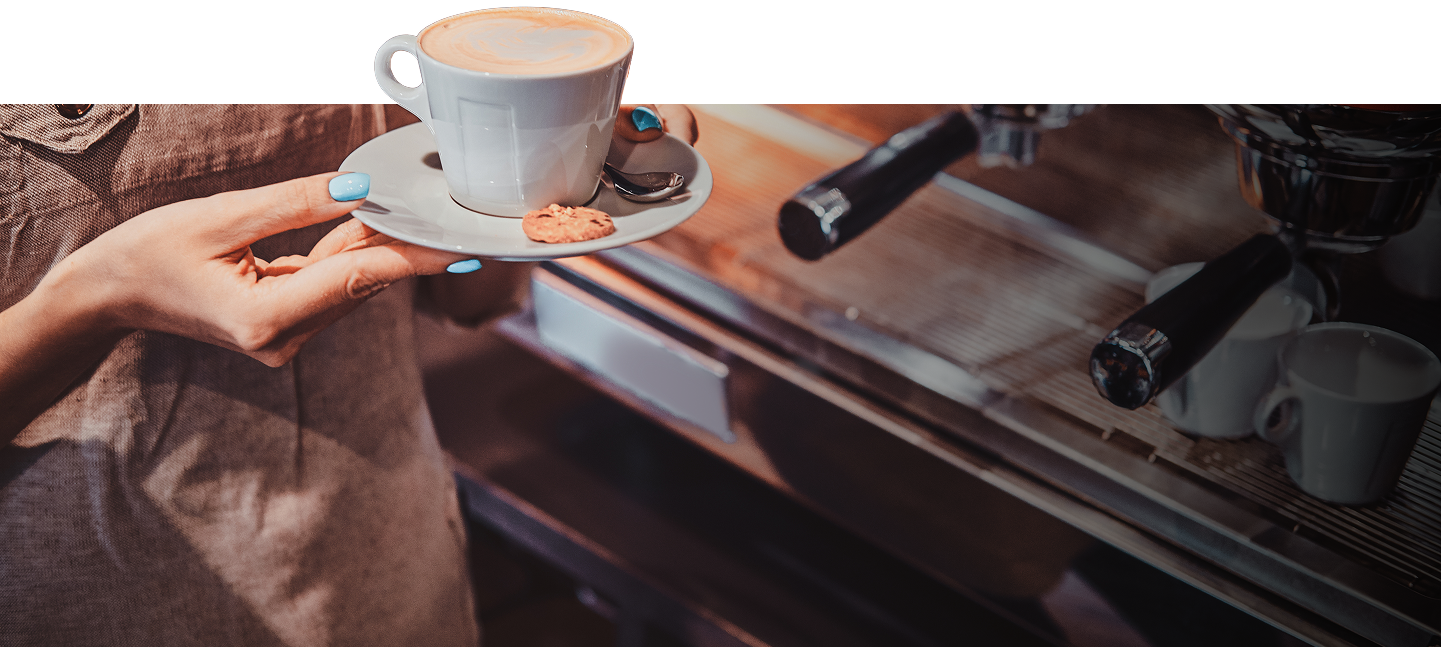
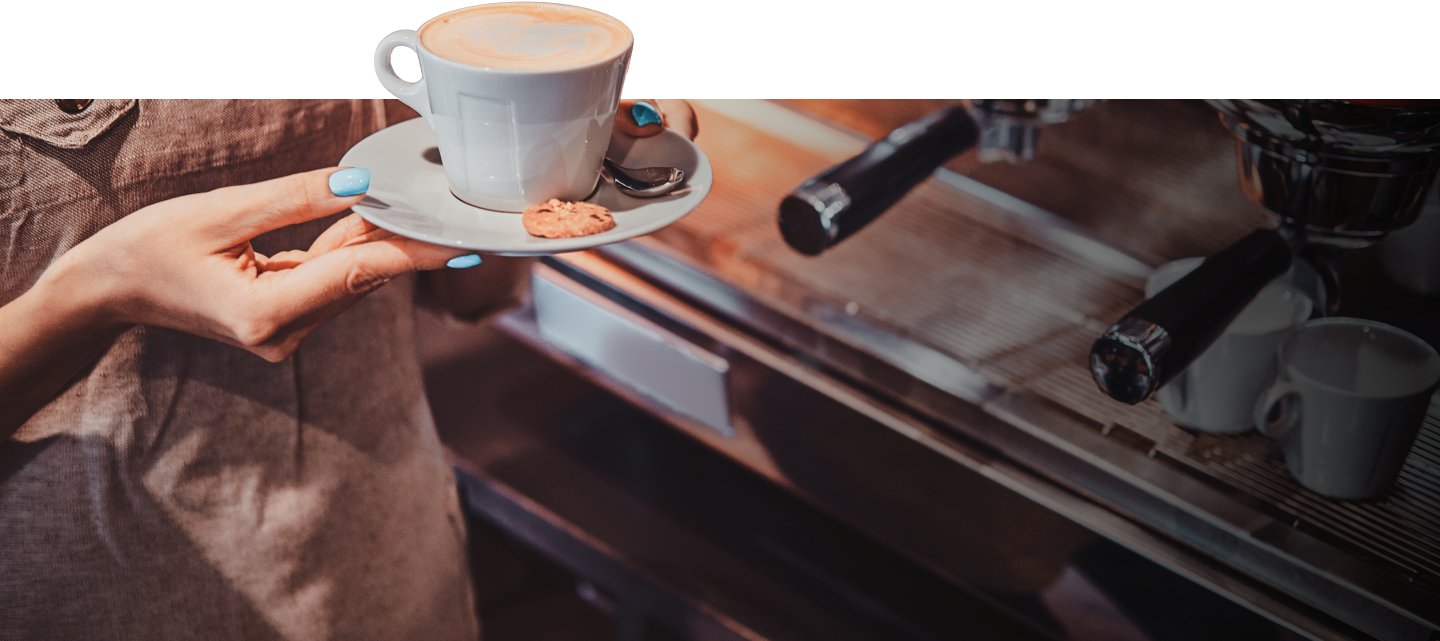
refactor: substitui tags <img> por componente <Image> do Next.js para otimizar carregamento de imagens

diff --git a/src/app/sobre/page.tsx b/src/app/sobre/page.tsx
@@ -13,11 +13,16 @@ export default function AboutSection() {
             <section className="mt-[120px]">
                 {/* MOBILE Banner */}
                 <div className="relative block md:hidden w-full">
-                    <img
-                        src="/images/destaques/Banner_Sobre_Mobile.png"
-                        alt="Banner Sobre Mobile"
-                        className="w-full h-auto"
-                    />
+                    <div className="block md:hidden relative w-full aspect-[1.2]">
+                        <Image
+                            src="/images/destaques/Banner_Sobre_Mobile.png"
+                            alt="Banner Sobre Mobile"
+                            fill
+                            className="object-cover"
+                            sizes="100vw"
+                            priority
+                        />
+                    </div>
                     <div className="absolute top-0 left-0 w-full h-full flex items-end justify-center px-4 pb-12">
                         <div className="text-white space-y-2 max-w-[320px] text-center">
                             <p className="text-sm font-normal">{t("bannerTitle1")}</p>
@@ -28,11 +33,19 @@ export default function AboutSection() {
 
                 {/* DESKTOP Banner */}
                 <div className="relative hidden md:block w-full aspect-[2.057] max-h-[790px] mt-[120px]">
-                    <img
+                    <Image
+                        src="/images/destaques/Banner_Sobre.png"
+                        alt="Banner Sobre"
+                        fill
+                        className="object-cover"
+                        sizes="100"
+                        priority
+                    />
+                    {/* <img
                         src="/images/destaques/Banner_Sobre.png"
                         alt="Banner Sobre"
                         className="absolute inset-0 w-full h-full object-cover"
-                    />
+                    /> */}
                     <div className="absolute bottom-0 left-0 w-full h-full flex items-end">
                         <div className="w-[561px] px-4 text-left ml-[36%] mb-12">
                             <p className="text-white text-2xl font-normal">
@@ -50,18 +63,26 @@ export default function AboutSection() {
             <div className="flex flex-col md:flex-row w-full mt-20 gap-y-12 md:gap-y-0">
                 <div className="w-full md:w-[600px] flex-shrink-0">
                     {/* Imagem desktop */}
-                    <img
-                        src="/images/destaques/Sobre_IMG_01.png"
-                        alt="Imagem Sobre"
-                        className="hidden md:block w-full h-auto object-cover"
-                    />
+                    <div className="hidden md:block">
+                        <Image
+                            src="/images/destaques/Sobre_IMG_01.png"
+                            alt="Imagem Sobre"
+                            width={600}
+                            height={900}
+                            className="w-full h-auto object-cover"
+                        />
+                    </div>
 
                     {/* Imagem mobile */}
-                    <img
-                        src="/images/destaques/Mobile_Sobre_IMG_01.png"
-                        alt="Imagem Sobre Mobile"
-                        className="block md:hidden w-full h-auto object-cover"
-                    />
+                    <div className="block md:hidden">
+                        <Image
+                            src="/images/destaques/Mobile_Sobre_IMG_01.png"
+                            alt="Imagem Sobre Mobile"
+                            width={390}
+                            height={468}
+                            className="w-full h-auto object-cover"
+                        />
+                    </div>
                 </div>
 
                 <div className="flex-1">
@@ -103,9 +124,11 @@ export default function AboutSection() {
 
                         {["porQueExistimos1", "porQueExistimos2", "porQueExistimos3", "porQueExistimos4"].map((key, index) => (
                             <div key={index} className="flex items-start gap-2">
-                                <img
+                                <Image
                                     src="/images/icones/check.png"
                                     alt="Check"
+                                    width={20}
+                                    height={20}
                                     className="mt-1 w-5 h-5"
                                 />
                                 <p className="text-primary text-base font-normal">
@@ -170,13 +193,16 @@ export default function AboutSection() {
 
             {/* Banner secundario - MOBILE */}
             <section className="relative block md:hidden w-full mb-[-100px]">
-                <img
+
+                <Image
                     src="/images/destaques/Mobile_Sobre_Banner_01.png"
                     alt="Banner Mobile"
+                    width={768}
+                    height={400}
                     className="w-full h-auto"
                 />
 
-                <div className="absolute top-0 left-0 w-full h-full flex items-start px-4 pt-[60px]">
+                <div className="absolute top-0 left-0 w-full h-full flex items-start px-8 pt-[60px]">
                     <div className="text-white text-left w-[240px]">
                         <p className="text-base font-bold">
                             {t("bannerSecondTitle")}

diff --git a/src/app/page.tsx b/src/app/page.tsx
@@ -6,6 +6,7 @@ import Container from "@/components/ui/Container";
 import { useTranslations } from "next-intl";
 import { Disclosure, DisclosureButton, DisclosurePanel } from '@headlessui/react'
 import { MinusSmallIcon, PlusSmallIcon } from '@heroicons/react/24/outline'
+import Image from "next/image";
 
 export default function Home() {
   const t = useTranslations("Home");
@@ -71,7 +72,12 @@ export default function Home() {
           {/* Tarifa baixa */}
           <div className="max-w-[400px]">
             <div className="flex items-center gap-2 mb-2">
-              <img src="/images/icones/money-icon.png" />
+              <Image
+                src="/images/icones/money-icon.png"
+                alt="Ícone de dinheiro"
+                width={24}
+                height={24}
+              />
               <h3 className="text-secondary font-bold text-lg">{t("benefits.tarifasBaixasTitulo")}</h3>
             </div>
             <p className="text-primary text-sm">
@@ -82,7 +88,12 @@ export default function Home() {
           {/* Rapidez */}
           <div className="max-w-[400px]">
             <div className="flex items-center gap-2 mb-2">
-              <img src="/images/icones/money-icon.png" />
+              <Image
+                src="/images/icones/rapidez-icon.png"
+                alt="Ícone de dinheiro"
+                width={24}
+                height={24}
+              />
               <h3 className="text-secondary font-bold text-lg">{t("benefits.rapidezTitulo")}</h3>
             </div>
             <p className="text-primary text-sm">
@@ -93,7 +104,12 @@ export default function Home() {
           {/* Transparência */}
           <div className="max-w-[400px]">
             <div className="flex items-center gap-2 mb-2">
-              <img src="/images/icones/money-icon.png" />
+              <Image
+                src="/images/icones/transparencia-icon.png"
+                alt="Ícone de dinheiro"
+                width={24}
+                height={24}
+              />
               <h3 className="text-secondary font-bold text-lg">{t("benefits.transparenciaTitulo")}</h3>
             </div>
             <p className="text-primary text-sm">
@@ -122,9 +138,11 @@ export default function Home() {
 
       {/* Banner intro - MOBILE */}
       <section className="relative block md:hidden w-full">
-        <img
+        <Image
           src="/images/destaques/Mobile_Banner_Dinero_Mobile.png"
           alt="Banner Mobile"
+          width={375}
+          height={435}
           className="w-full h-auto"
         />
 
@@ -219,9 +237,11 @@ export default function Home() {
 
       {/* Banner secundario - MOBILE */}
       <section className="relative block md:hidden w-full">
-        <img
+        <Image
           src="/images/destaques/Mobile_Banner_Cafe.png"
           alt="Banner Mobile"
+          width={750}
+          height={500}
           className="w-full h-auto"
         />
 

diff --git a/src/components/layout/Header/Header.tsx b/src/components/layout/Header/Header.tsx
@@ -1,6 +1,6 @@
 "use client";
 
-import { useState } from "react";
+import { useEffect, useState } from "react";
 import {
   Dialog,
   DialogPanel,
@@ -19,6 +19,17 @@ import Link from "next/link";
 export default function Header() {
   const pathname = usePathname();
   const [mobileMenuOpen, setMobileMenuOpen] = useState(false);
+  const [isScrolled, setIsScrolled] = useState(false);
+
+  useEffect(() => {
+    const handleScroll = () => {
+      setIsScrolled(window.scrollY > 10);
+    };
+
+    window.addEventListener("scroll", handleScroll);
+    return () => window.removeEventListener("scroll", handleScroll);
+  }, []);
+
   const t = useTranslations("Header");
 
   const navigation = [
@@ -48,8 +59,8 @@ export default function Header() {
 
   return (
     <>
-      <header className="absolute inset-x-0 top-0 z-50 flex h-[110px] mx-auto max-w-[1440px]">
-        <div className="mx-auto flex w-full max-w-7xl items-center justify-between px-4 sm:px-6 lg:px-8">
+      <header className={`fixed inset-x-0 top-0 z-50 w-full bg-white transition-all duration-300 ${isScrolled ? "h-[90px]" : "h-[110px]"}`}>
+        <div className="mx-auto flex w-full max-w-[1440px] items-center justify-between px-4 sm:px-6 lg:px-8 h-full">
           {/* Logo + nav */}
           <div className="flex items-center gap-x-6">
             <img

diff --git a/src/app/como-funciona/page.tsx b/src/app/como-funciona/page.tsx
@@ -3,6 +3,7 @@
 import CustomButton from "@/components/ui/CustomButton";
 import Container from "@/components/ui/Container";
 import { useTranslations } from "next-intl";
+import Image from "next/image";
 
 export default function HowItWorksSection() {
     const t = useTranslations("HowItWorks");
@@ -58,13 +59,20 @@ export default function HowItWorksSection() {
             </div>
 
             {/* DESKTOP Banner */}
-            <div className="relative hidden md:block w-full h-[483px]">
-                <img
+            <div className="relative hidden md:block w-full">
+                <Image
+                    src="/images/destaques/Banner_Como_Funciona.png"
+                    alt="Banner Como Funciona"
+                    width={1440}
+                    height={483}
+                    className="w-full h-full object-cover"
+                    priority
+                />
+                {/* <img
                     src="/images/destaques/Banner_Como_Funciona.png"
                     alt="Banner Como Funciona"
                     className="w-full h-full object-fill"
-                />
-
+                /> */}
                 <div className="absolute bottom-0 left-0 w-full">
                     <Container>
                         <div className="w-[448px] pb-30 px-4">

diff --git a/src/app/sign-up/page.tsx b/src/app/sign-up/page.tsx
@@ -39,7 +39,7 @@ export default function SignUpPage() {
 
             {/* Lado direito */}
             <div className="flex flex-col w-full lg:w-1/2">
-                <div className="flex flex-1 items-start justify-center px-4 pb-6 sm:px-6 sm:pb-8">
+                <div className="flex flex-1 items-start justify-center px-4 pb-6 mt-8 sm:px-6 sm:pb-8 sm:mt-0">
                     {step === 1 && <StepOne onNext={() => setStep(2)} />}
                     {step === 2 && <StepTwo onNext={() => setStep(3)} onBack={() => setStep(1)} />}
                     {step === 3 && <StepThree />}
